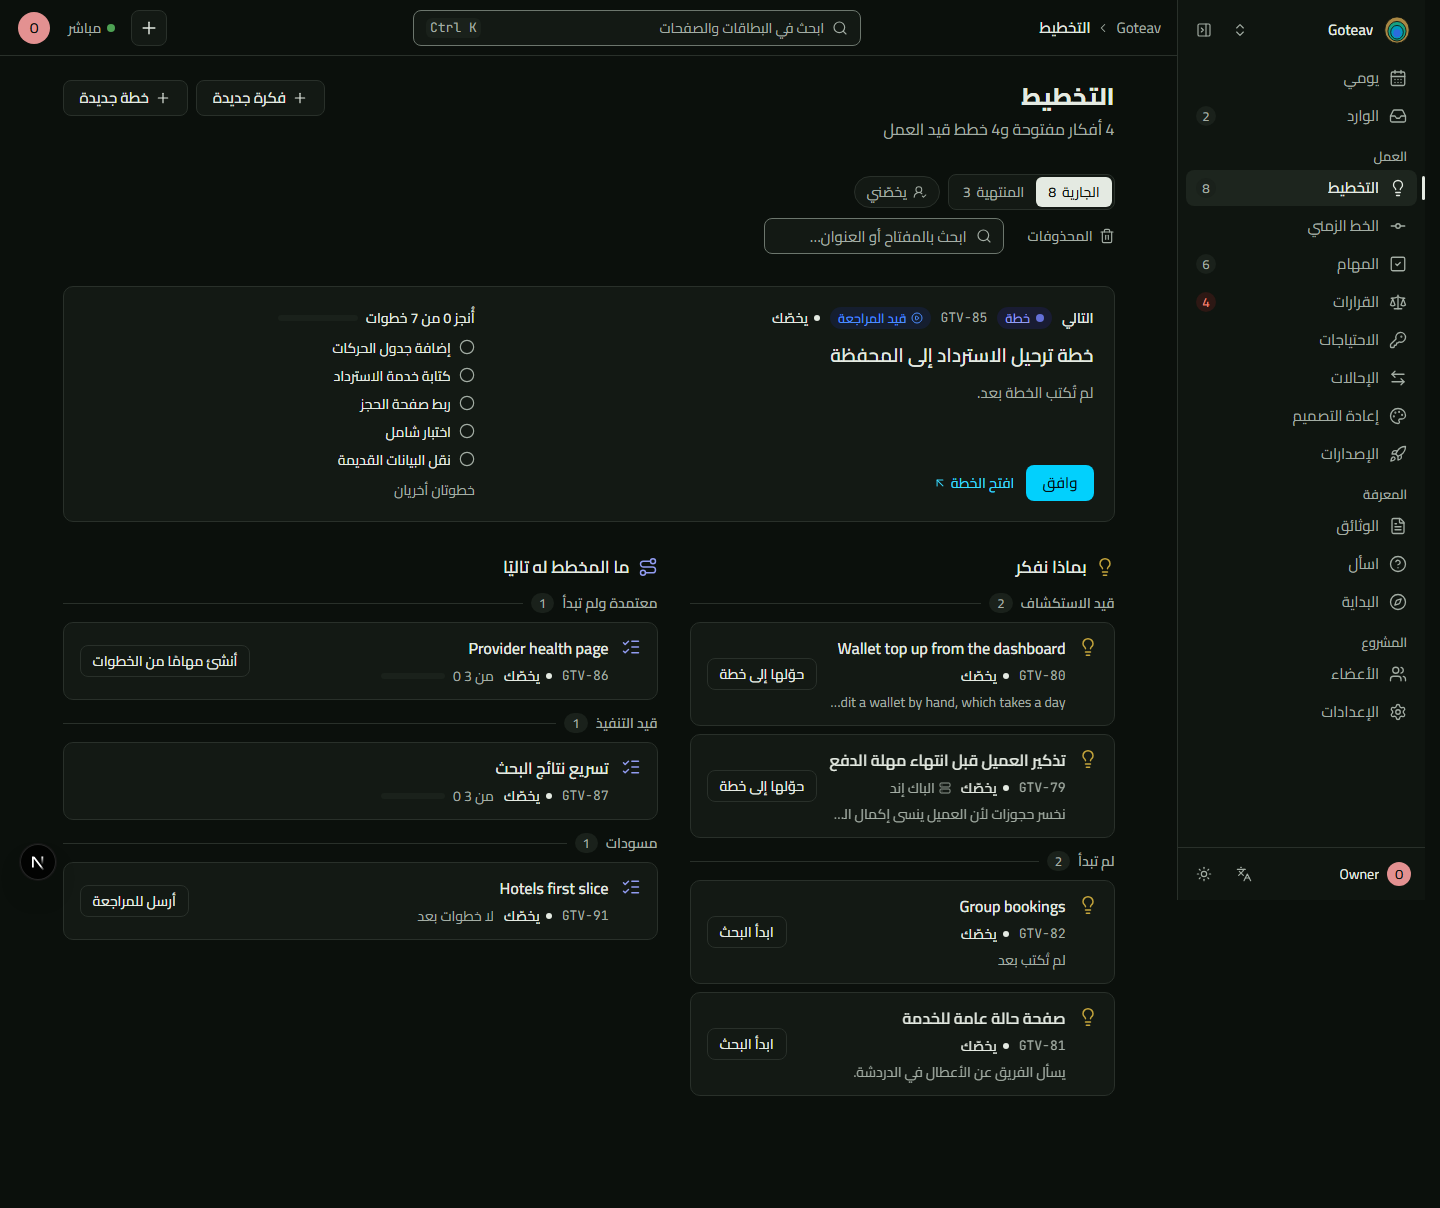
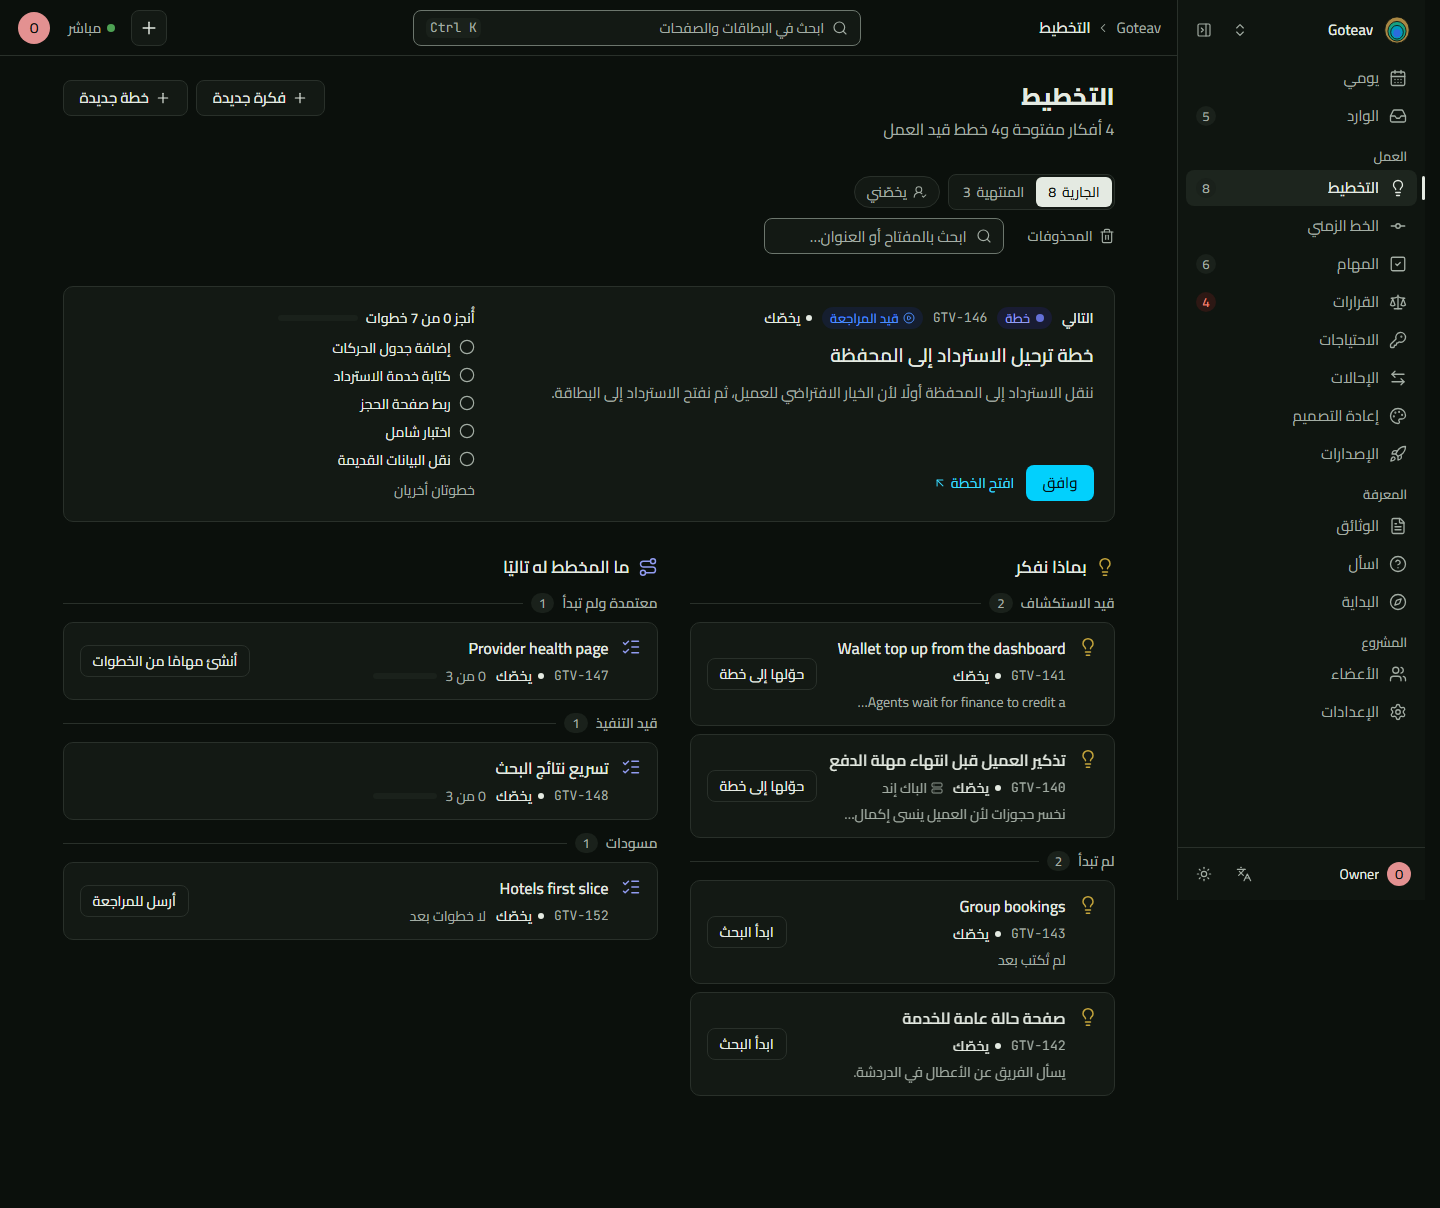
docs(web): add Planning's shots for the owner, and the page contract's new parts

diff --git a/apps/web/README.md b/apps/web/README.md
@@ -258,9 +258,11 @@ Changed from the design:
 
 - `ActorChip` and `Avatar` read `useMember`. `Member.name` is one string, and `lastActiveAt` may be absent.
 - `showToast({ tone: 'error' })` for a refusal. Without `onUndo` a toast has no Undo.
-- Sheet sections: `components/cards/sheet-sections/<type>.tsx`, registered in `index.ts`. `idea.tsx` and `plan.tsx` are new and read-only: the Planning page's author adds "Turn into a plan", "Create tasks from steps" and editing of the Markdown (docs/15 §4). A section's file-local strings are in `kit.json` under `sections.<file>`.
+- Sheet sections: `components/cards/sheet-sections/<type>.tsx`, registered in `index.ts`. A section's file-local strings are in `kit.json` under `sections.<file>`. Editing is `?action=edit`, with shared parts in `edit-bits.tsx`: task, decision, idea and plan have it. `idea.tsx` holds the "Turn into a plan" form, and `plan.tsx` holds steps and revisions.
 - `RedesignSection` lost the curtain compare: the Redesign page's author moves `pages/redesign/parts/compare.tsx` here. Screenshots are the card's attachments.
-- `to_plan`, `to_tasks` and the other Idea and Plan verbs come from the contract, so the sheet offers them already. `to_plan` has `mode: form`, and its form belongs in `idea.tsx`.
+- `to_plan`, `to_tasks` and the other Idea and Plan verbs come from the contract, so the sheet offers them already. `to_tasks` is the one action that keeps its sheet open.
+- The Deleted view is `tasks?view=deleted` (`components/tasks/deleted-view.tsx`). `DeletedLink` is the way in from a filter panel.
+- A list with detail: `fetchDetailRows` (`features/cards/rows.ts`). A row still has no `body`: read the card (`useCardQuery`) when you need the text.
 - `DocSection` shows the API's headings and links out only when `detail.webUrl` exists.
 - New: `LiveIndicator`, `AuthFrame` (`components/auth`), `NewProjectWizard`, `ProjectsPage` (`components/workspaces`), `ViewPlaceholder`.
 

diff --git a/apps/web/src/components/planning/NOTES.md b/apps/web/src/components/planning/NOTES.md
@@ -35,5 +35,5 @@ From the top: the header, the filter row, one focal card across the whole width,
 
 ## Limits
 
-- A decision's or a plan's `question`-like fields follow the API: Planning shows what `GET /ideas` and `GET /plans` return, up to 1000 of each.
+- The page reads `GET /ideas` and `GET /plans`, up to 1000 of each. A plan row shows no text, because a list row carries no body. The focal plan reads its own card for it.
 - The sidebar's Planning badge waits for `GET /counters` (README, Known limits). The page's own numbers come from its rows.
